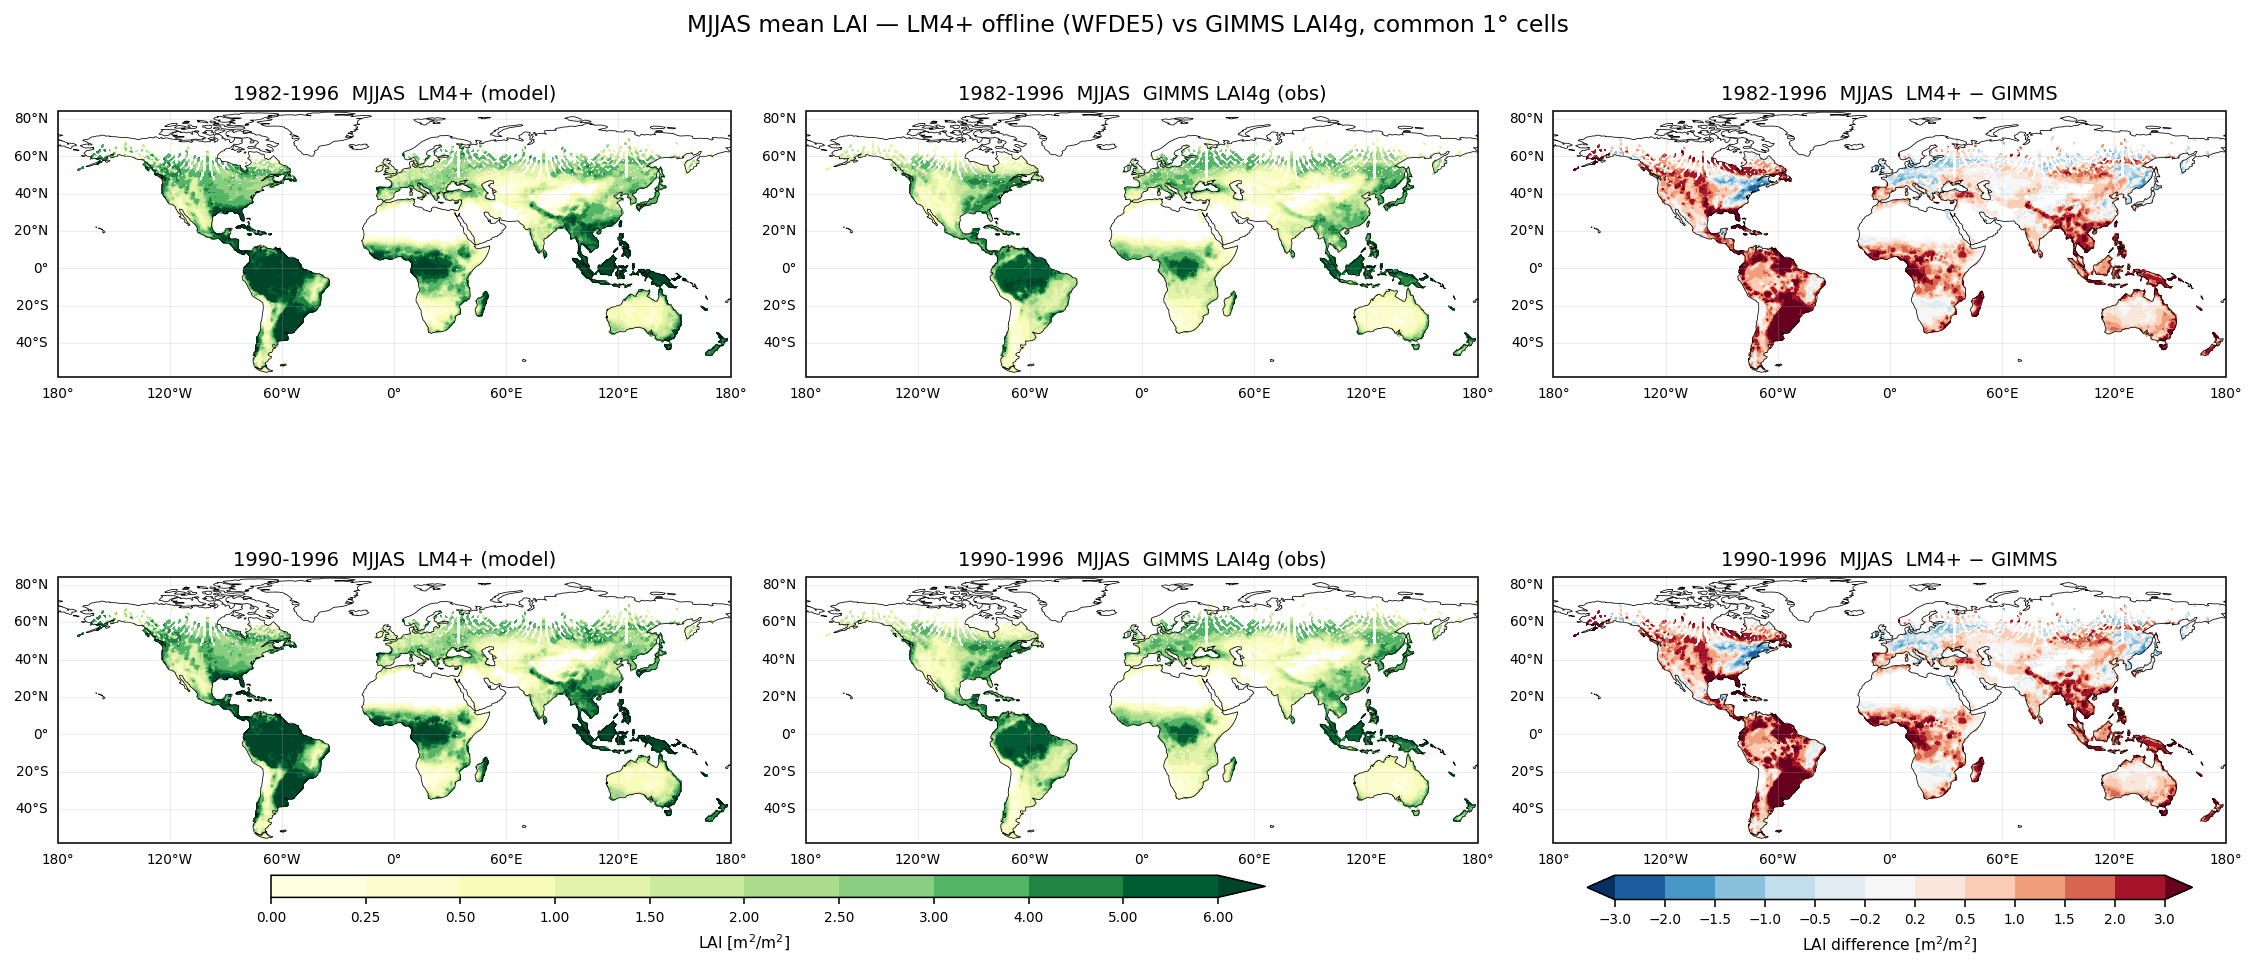
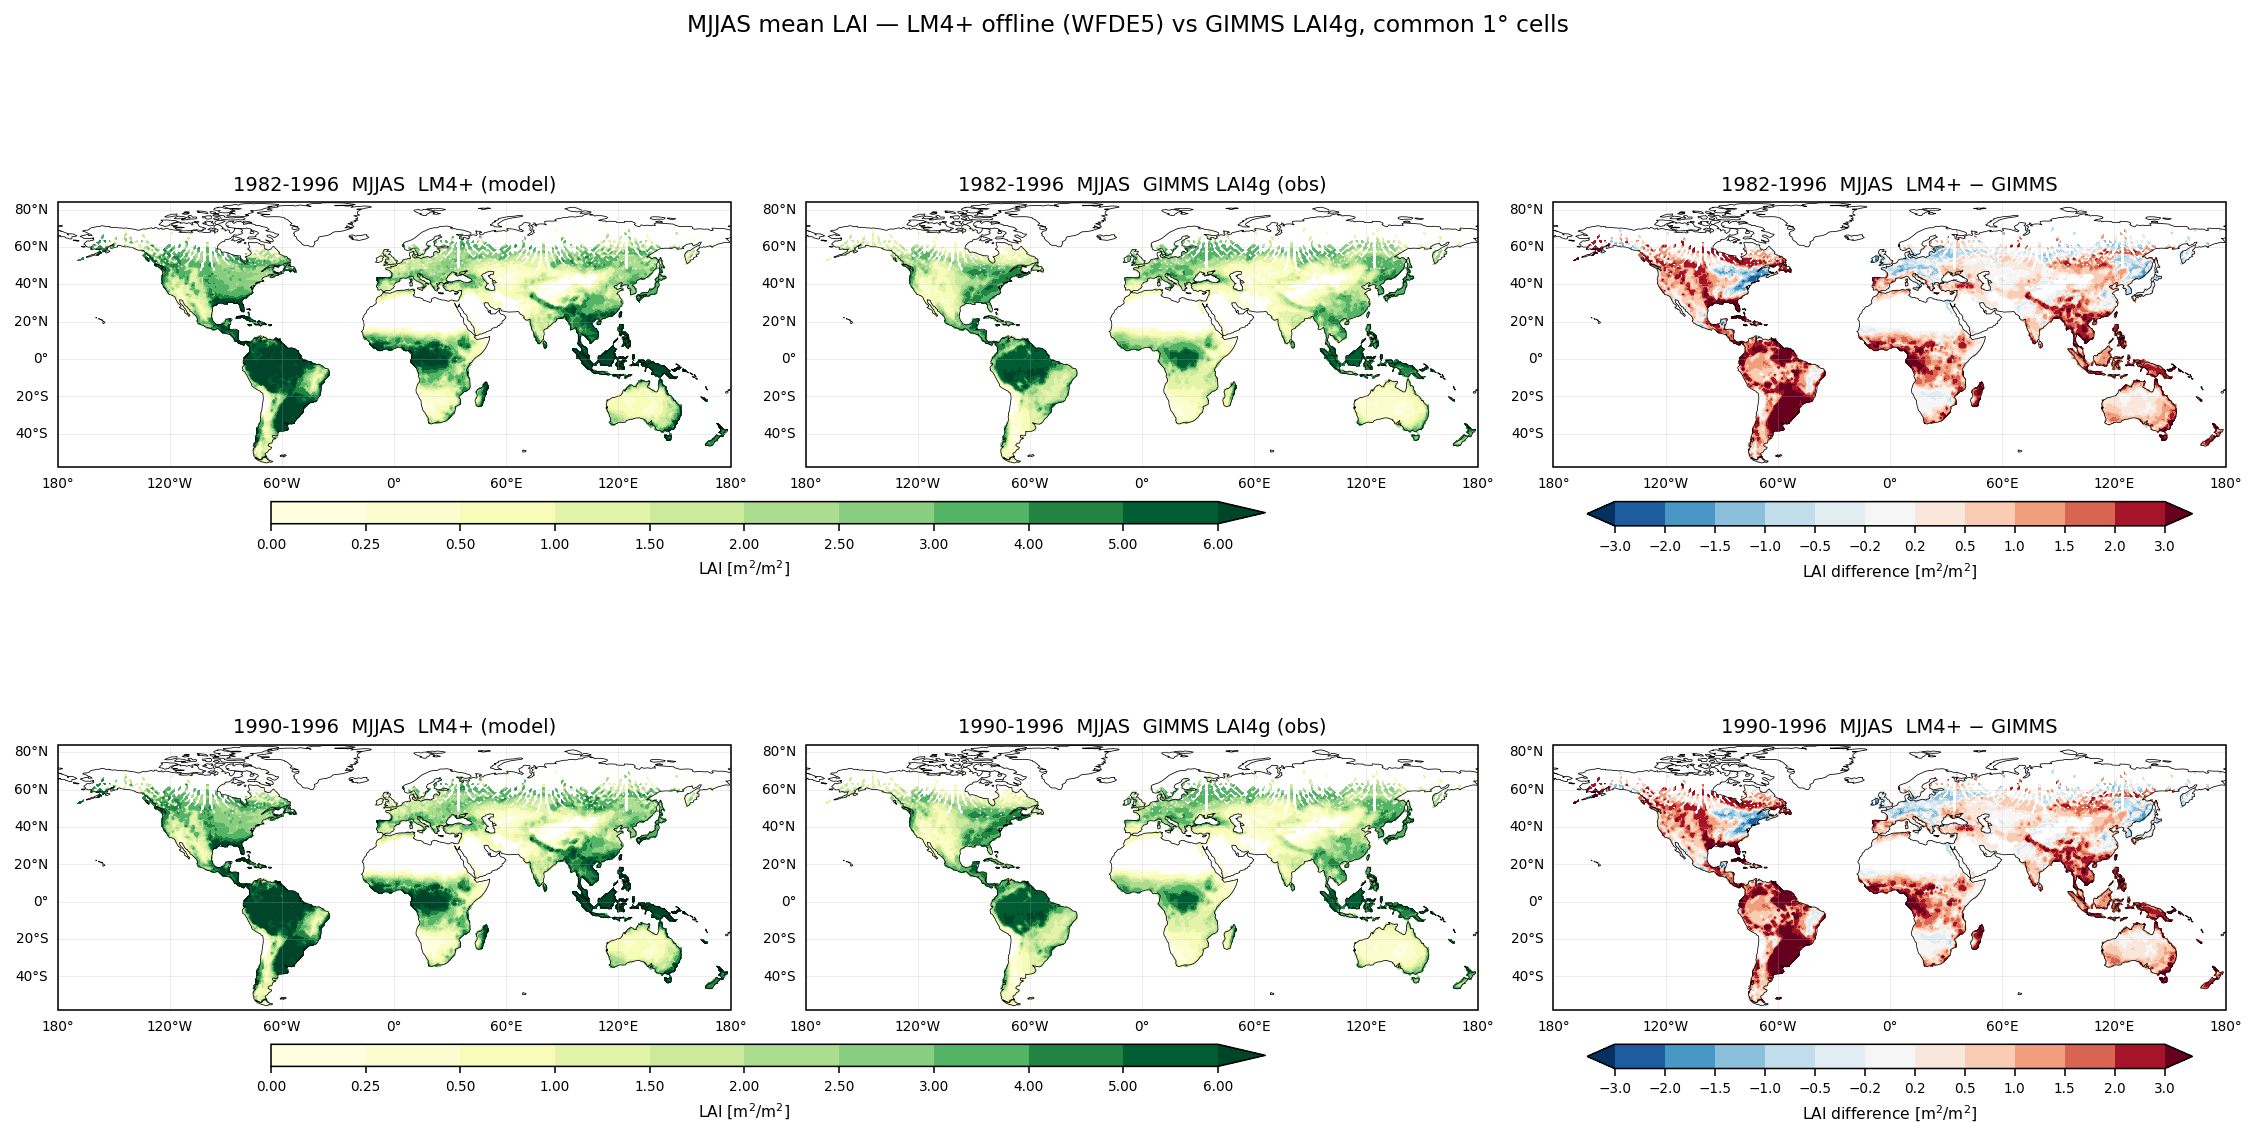
Break the LAI drift down by region
The global mean said the model rises 2.4x faster than GIMMS before 1990 and
stops afterwards. Split into the boxes the bias and trend maps pointed at, that
single number turns out to average very different behaviour: the 1982-89 rise is
+2.26 %/yr over the Amazon and +3.06 over Australia but only +0.24 over SE Asia,
a tenfold spread.

Two results worth keeping. Siberia has essentially no mean bias (+0.02) yet its
1982-89 trend is +1.51 against an observed -0.42 - the mean state is right while
the adjustment moves independently of the observations, so a small bias is not
evidence of a well behaved region. And the wet tropics carry a +1.5 to +1.6
bias while showing the weakest drift, which points at bias and drift having
separate causes.

Australia's +3.06 then -3.57 is more likely interannual than drift: MJJAS is its
dry season and the early 1990s were strongly ENSO-driven. Flagged rather than
interpreted.

The boxes are defined once and drawn on a locator map, so the time-series panels
carry only a letter instead of repeating coordinates, and the trend numbers move
out of the panels into the CSV where they do not collide with the curves. Both
map figures now carry a colourbar under each row so a single row can be cropped
out and used on its own, and the averaging-domain map is drawn as filled 2-degree
boxes rather than C96 dots.

Claude-Session: https://claude.ai/code/session_01DEPG17R63x29iz16bjY1px

diff --git a/lm4/scripts/lai_trend_regions.py b/lm4/scripts/lai_trend_regions.py
@@ -1,0 +1,161 @@
+"""Is the drift global, or does it come from particular regions?
+
+The global-mean version (lai_trend_vs_gimms.py) established that 1982-89 is
+spin-up drift: the model rises 2.4x faster than GIMMS and then stops in 1990
+while the observations keep greening.  A single global number cannot say whether
+that is uniform, and the maps already showed it is not.
+
+Boxes are picked from the bias and trend maps rather than from generic latitude
+bands: the largest overestimate sits in the wet tropics, the worst band overall
+is 60-30S (where the trend sign is wrong too), and the only underestimate is
+boreal.  Same common 1-degree cells and cos(lat) weights as the global figure.
+
+Two outputs so the boxes are defined once: a locator map carrying the letters,
+and the time series panels carrying only those letters -- no coordinates repeated
+on every panel.
+
+Note MJJAS is the northern growing season; for Amazon, Congo and Australia it is
+the dry season, so those panels are dry-season LAI.
+
+Inputs : lm4/data/lm4_lai_1982_1996.npz, lm4/data/gimms_1deg_1982_1996.npz
+Outputs: figures/lai_regions_map.png, figures/lai_trend_regions.png,
+         lm4/data/lai_trend_regions.csv
+"""
+import numpy as np
+import matplotlib.pyplot as plt
+from matplotlib.patches import Rectangle
+from matplotlib.ticker import MultipleLocator
+import cartopy.crs as ccrs
+import cartopy.feature as cfeature
+
+YEARS = np.arange(1982, 1997)
+NLAT, NLON = 180, 360
+lat1 = 89.5 - np.arange(NLAT)
+lon1 = -179.5 + np.arange(NLON)
+LAT2 = lat1[:, None] * np.ones((1, NLON))
+LON2 = np.ones((NLAT, 1)) * lon1[None, :]
+
+# letter, name, (lat0, lat1, lon0, lon1);  None = whole common domain
+REGIONS = [
+    ("",  "Global land", None),
+    ("A", "Amazon",    (-10, 5, -70, -50)),
+    ("B", "Congo",     (-5, 5, 12, 30)),
+    ("C", "SE Asia",   (-10, 10, 95, 140)),
+    ("D", "Australia", (-35, -15, 115, 150)),
+    ("E", "Siberia",   (55, 70, 60, 140)),
+]
+
+z = np.load("lm4/data/lm4_lai_1982_1996.npz")
+g = np.load("lm4/data/gimms_1deg_1982_1996.npz")
+lat, lon, keep = z["lat"], z["lon"], z["keep"]
+ilat = np.clip(((90.0 - lat) / 1.0).astype(int), 0, NLAT - 1)
+ilon = np.clip(((lon + 180.0) / 1.0).astype(int), 0, NLON - 1)
+
+
+def bin_model(v):
+    v = np.where(keep, v, np.nan)
+    s = np.zeros((NLAT, NLON))
+    c = np.zeros((NLAT, NLON))
+    ok = np.isfinite(v)
+    np.add.at(s, (ilat[ok], ilon[ok]), v[ok])
+    np.add.at(c, (ilat[ok], ilon[ok]), 1.0)
+    out = np.full((NLAT, NLON), np.nan)
+    m = c > 0
+    out[m] = s[m] / c[m]
+    return out
+
+
+ms = np.stack([bin_model(z["mjjas_%d" % y]) for y in YEARS])
+gs = np.stack([g["mjjas_%d" % y] for y in YEARS])
+common = np.all(np.isfinite(ms), axis=0) & np.all(np.isfinite(gs), axis=0)
+W = np.cos(np.deg2rad(lat1))[:, None] * np.ones((1, NLON))
+
+
+def mask_of(bx):
+    if bx is None:
+        return common
+    la0, la1, lo0, lo1 = bx
+    return common & (LAT2 >= la0) & (LAT2 < la1) & (LON2 >= lo0) & (LON2 < lo1)
+
+
+def series(sel):
+    w = np.where(sel, W, 0.0)
+    a = np.array([np.nansum(np.where(sel, ms[i], 0) * w) / w.sum()
+                  for i in range(len(YEARS))])
+    b = np.array([np.nansum(np.where(sel, gs[i], 0) * w) / w.sum()
+                  for i in range(len(YEARS))])
+    return a, b, int(sel.sum())
+
+
+def tr(v, s):
+    return np.polyfit(YEARS[s], v[s], 1)[0] / abs(v[s].mean()) * 100
+
+
+# ------------------------------------------------------------ locator map ----
+proj = ccrs.PlateCarree()
+fig = plt.figure(figsize=(14, 7))
+ax = fig.add_subplot(1, 1, 1, projection=proj)
+ax.set_extent([-180, 180, -58, 84], crs=proj)
+ax.add_feature(cfeature.COASTLINE, lw=0.45)
+bg = np.where(common, ms.mean(axis=0), np.nan)
+im = ax.contourf(lon1, lat1, bg,
+                 levels=[0, 0.25, 0.5, 1.0, 1.5, 2.0, 2.5, 3.0, 4.0, 5.0, 6.0],
+                 cmap="YlGn", extend="max", transform=proj)
+for letter, name, bx in REGIONS:
+    if bx is None:
+        continue
+    la0, la1, lo0, lo1 = bx
+    ax.add_patch(Rectangle((lo0, la0), lo1 - lo0, la1 - la0, fill=False,
+                           edgecolor="#1a1a1a", lw=2.0, transform=proj, zorder=5))
+    ax.text(lo0 + (lo1 - lo0) / 2, la1 + 2.5, "%s  %s" % (letter, name),
+            ha="center", va="bottom", fontsize=13, fontweight="bold",
+            transform=proj, zorder=6,
+            bbox=dict(boxstyle="round,pad=0.25", fc="white", ec="#1a1a1a", lw=1.0))
+gl = ax.gridlines(draw_labels=True, lw=0.3, alpha=0.4)
+gl.top_labels = False
+gl.right_labels = False
+gl.xlabel_style = {"size": 11}
+gl.ylabel_style = {"size": 11}
+cb = fig.colorbar(im, ax=ax, orientation="horizontal", pad=0.06, shrink=0.6,
+                  aspect=40)
+cb.set_label("MJJAS mean LAI 1982–1996, LM4+ [m$^2$/m$^2$]", fontsize=12)
+cb.ax.tick_params(labelsize=10)
+ax.set_title("Regions used for the LAI time series", fontsize=15)
+fig.tight_layout()
+fig.savefig("figures/lai_regions_map.png", dpi=150)
+print("wrote figures/lai_regions_map.png")
+
+# ------------------------------------------------------------- time series ---
+d1, d2 = YEARS <= 1989, YEARS >= 1990
+rows = []
+print("\nMJJAS LAI, common 1-deg cells, cos(lat) weighted")
+print("%-16s %6s | %8s %8s | %8s %8s | %6s"
+      % ("region", "cells", "LM4 82-89", "obs", "LM4 90-96", "obs", "bias"))
+fig, axes = plt.subplots(2, 3, figsize=(19, 9))
+for ax, (letter, name, bx) in zip(axes.ravel(), REGIONS):
+    a, b, n = series(mask_of(bx))
+    bias = a.mean() - b.mean()
+    print("%-16s %6d | %+8.2f %+8.2f | %+8.2f %+8.2f | %+6.2f"
+          % (name, n, tr(a, d1), tr(b, d1), tr(a, d2), tr(b, d2), bias))
+    rows.append([n, tr(a, d1), tr(b, d1), tr(a, d2), tr(b, d2), bias])
+
+    ax.plot(YEARS, a, "o-", color="#08519c", lw=2.2, ms=6, label="LM4+ (model)")
+    ax.plot(YEARS, b, "s-", color="#238b45", lw=2.2, ms=6, label="GIMMS LAI4g")
+    ax.set_title("%s %s" % (("(%s)" % letter) if letter else "", name),
+                 fontsize=17, loc="left")
+    ax.set_ylabel("LAI [m$^2$/m$^2$]", fontsize=14)
+    ax.set_xlabel("year", fontsize=14)
+    ax.tick_params(labelsize=13)
+    ax.xaxis.set_major_locator(MultipleLocator(5))
+    ax.xaxis.set_minor_locator(MultipleLocator(1))
+    ax.grid(alpha=0.3, lw=0.5)
+axes[0, 0].legend(fontsize=13, loc="center right")
+fig.suptitle("LAI by region — LM4+ vs GIMMS LAI4g, MJJAS mean on common 1° cells "
+             "(boxes: see the locator map)", fontsize=16)
+fig.tight_layout(rect=[0, 0, 1, 0.94])
+fig.savefig("figures/lai_trend_regions.png", dpi=140)
+
+np.savetxt("lm4/data/lai_trend_regions.csv", np.array(rows), delimiter=",",
+           header="ncells,lm4_8289,gimms_8289,lm4_9096,gimms_9096,bias",
+           comments="", fmt="%.4f")
+print("\nwrote figures/lai_trend_regions.png")

diff --git a/lm4/scripts/plot_avg_domain.py b/lm4/scripts/plot_avg_domain.py
@@ -1,58 +1,83 @@
 """Which cells the LM4+ global land mean is actually taken over.
 
 The time-series figures average over C96 land points, but not all of them:
-variables carried on soil_area already drop Antarctica, and a Greenland box is
-cut by hand (Iceland kept).  This draws the three groups so the averaging domain
-is on record next to the numbers.
+variables carried on soil_area already drop Antarctica, and Greenland is removed
+by its Natural Earth outline (greenland_mask.py).  Drawn on a 2-degree display
+grid so the domain reads as coverage rather than as scattered C96 dots.
+
+A 2-degree box counts as used if it holds at least one averaged point; boxes
+that hold land but no averaged point are the excluded ones.
 
 Input : lm4/data/lm4_lai_1982_1996.npz  (lat, lon, keep, ann_1990)
 Output: figures/lm4_avg_domain.png
 """
 import numpy as np
 import matplotlib.pyplot as plt
+from matplotlib.colors import ListedColormap, BoundaryNorm
 import cartopy.crs as ccrs
 import cartopy.feature as cfeature
 
 z = np.load("lm4/data/lm4_lai_1982_1996.npz")
 lat = z["lat"]
 lon = np.where(z["lon"] > 180, z["lon"] - 360, z["lon"])
-keep = z["keep"]                      # False inside the Greenland box
+keep = z["keep"]                      # False inside the Greenland outline
 soil = np.isfinite(z["ann_1990"])     # soil_area > 0, i.e. not ice sheet
 
 used = soil & keep
-ice = ~soil
-grn = soil & ~keep
+excluded = ~used
 
-print("C96 land points          %6d" % lat.size)
-print("  ice sheet (no soil)    %6d   lat %.1f .. %.1f" % (ice.sum(), lat[ice].min(), lat[ice].max()))
-print("  Greenland box cut      %6d" % grn.sum())
-print("  USED in the land mean  %6d" % used.sum())
 w = np.cos(np.deg2rad(lat))
-print("  used share of land area  %.1f %%" % (100 * w[used].sum() / w.sum()))
+print("C96 land points          %6d" % lat.size)
+print("  ice sheet (no soil)    %6d" % (~soil).sum())
+print("  Greenland outline cut  %6d" % (soil & ~keep).sum())
+print("  USED in the land mean  %6d  (%.1f %% of land area)"
+      % (used.sum(), 100 * w[used].sum() / w.sum()))
+
+DL = 2.0
+NLAT, NLON = int(180 / DL), int(360 / DL)
+blat = 90 - DL / 2 - np.arange(NLAT) * DL
+blon = -180 + DL / 2 + np.arange(NLON) * DL
+bi = np.clip(((90.0 - lat) / DL).astype(int), 0, NLAT - 1)
+bj = np.clip(((lon + 180.0) / DL).astype(int), 0, NLON - 1)
+
+grid = np.zeros((NLAT, NLON))                      # 0 = ocean / no land
+np.add.at(grid, (bi[excluded], bj[excluded]), 0)   # keep the array shape honest
+has_land = np.zeros((NLAT, NLON), bool)
+has_used = np.zeros((NLAT, NLON), bool)
+np.logical_or.at(has_land, (bi, bj), True)
+np.logical_or.at(has_used, (bi[used], bj[used]), True)
+
+field = np.full((NLAT, NLON), np.nan)
+field[has_land] = 0.0                              # land but nothing averaged
+field[has_used] = 1.0                              # at least one averaged point
+print("  2-deg boxes: used %d, excluded-only %d"
+      % (has_used.sum(), (has_land & ~has_used).sum()))
+
+cmap = ListedColormap(["#b8d4e8", "#2c7a3f"])      # excluded, used
+norm = BoundaryNorm([-0.5, 0.5, 1.5], cmap.N)
 
 proj = ccrs.PlateCarree()
-fig = plt.figure(figsize=(13, 6.4))
+fig = plt.figure(figsize=(14, 7))
 ax = fig.add_subplot(1, 1, 1, projection=proj)
 ax.set_extent([-180, 180, -90, 90], crs=proj)
-ax.add_feature(cfeature.COASTLINE, lw=0.45)
-ax.scatter(lon[used], lat[used], s=1.4, marker="s", c="#2c7a3f",
-           transform=proj, linewidths=0,
-           label="used in the land mean  (n=%d)" % used.sum())
-ax.scatter(lon[ice], lat[ice], s=1.4, marker="s", c="#7fb3d5",
-           transform=proj, linewidths=0,
-           label="ice sheet, no soil tile  (n=%d)" % ice.sum())
-ax.scatter(lon[grn], lat[grn], s=5.0, marker="s", c="#e07b39",
-           transform=proj, linewidths=0,
-           label="Greenland box cut by hand  (n=%d)" % grn.sum())
+ax.pcolormesh(blon, blat, np.ma.masked_invalid(field), cmap=cmap, norm=norm,
+              transform=proj, shading="nearest")
+ax.add_feature(cfeature.COASTLINE, lw=0.5)
 gl = ax.gridlines(draw_labels=True, lw=0.3, alpha=0.4)
 gl.top_labels = False
 gl.right_labels = False
-gl.xlabel_style = {"size": 8}
-gl.ylabel_style = {"size": 8}
-ax.legend(loc="lower left", fontsize=9, markerscale=6, framealpha=0.92)
-ax.set_title("Averaging domain of the LM4+ global land mean — C96 land points\n"
-             "soil_area > 0 minus a Greenland box (Iceland kept); "
-             "Antarctica has no soil tile at all", fontsize=11)
+gl.xlabel_style = {"size": 11}
+gl.ylabel_style = {"size": 11}
+handles = [plt.Rectangle((0, 0), 1, 1, fc="#2c7a3f", ec="none"),
+           plt.Rectangle((0, 0), 1, 1, fc="#b8d4e8", ec="none")]
+ax.legend(handles,
+          ["averaged  (%d C96 points, %.0f %% of land area)"
+           % (used.sum(), 100 * w[used].sum() / w.sum()),
+           "excluded: ice sheet + Greenland  (%d points)" % excluded.sum()],
+          loc="lower left", fontsize=11, framealpha=0.93)
+ax.set_title("Averaging domain of the LM4+ global land mean\n"
+             "C96 land points with soil_area > 0, Greenland removed by its "
+             "outline;  shown on a 2° grid", fontsize=14)
 fig.tight_layout()
 fig.savefig("figures/lm4_avg_domain.png", dpi=150)
 print("\nwrote figures/lm4_avg_domain.png")

diff --git a/lm4/scripts/lai_trendmap_vs_gimms.py b/lm4/scripts/lai_trendmap_vs_gimms.py
@@ -89,7 +89,7 @@ for win in ("ann", "mjjas"):
 LV = np.array([-0.6, -0.4, -0.25, -0.15, -0.05, 0.05, 0.15, 0.25, 0.4, 0.6])
 LVD = np.array([-0.6, -0.4, -0.25, -0.15, -0.05, 0.05, 0.15, 0.25, 0.4, 0.6])
 proj = ccrs.PlateCarree()
-fig, axes = plt.subplots(2, 3, figsize=(16, 6.8), subplot_kw={"projection": proj},
+fig, axes = plt.subplots(2, 3, figsize=(16, 8.0), subplot_kw={"projection": proj},
                          constrained_layout=True)
 titles = ["LM4+ (model)", "GIMMS LAI4g (obs)", "LM4+ − GIMMS"]
 im_val = im_dif = None
@@ -114,14 +114,16 @@ for r, win in enumerate(("ann", "mjjas")):
         gl.xlabel_style = {"size": 7}
         gl.ylabel_style = {"size": 7}
 
-cb = fig.colorbar(im_val, ax=[axes[1, 0], axes[1, 1]], orientation="horizontal",
-                  ticks=LV, shrink=0.7, pad=0.02, aspect=45)
-cb.ax.tick_params(labelsize=7)
-cb.set_label("LAI trend [m$^2$/m$^2$ per decade]", fontsize=8)
-cb2 = fig.colorbar(im_dif, ax=axes[1, 2], orientation="horizontal",
-                   ticks=LVD, shrink=0.9, pad=0.02, aspect=25)
-cb2.ax.tick_params(labelsize=7)
-cb2.set_label("trend difference [m$^2$/m$^2$ per decade]", fontsize=8)
+# a colourbar under every row, so either row can be cropped out and used alone
+for r_ in range(2):
+    cb = fig.colorbar(im_val, ax=[axes[r_, 0], axes[r_, 1]], orientation="horizontal",
+                      ticks=LV, shrink=0.7, pad=0.02, aspect=45)
+    cb.ax.tick_params(labelsize=7)
+    cb.set_label("LAI trend [m$^2$/m$^2$ per decade]", fontsize=8)
+    cb2 = fig.colorbar(im_dif, ax=axes[r_, 2], orientation="horizontal",
+                       ticks=LVD, shrink=0.9, pad=0.02, aspect=25)
+    cb2.ax.tick_params(labelsize=7)
+    cb2.set_label("trend difference [m$^2$/m$^2$ per decade]", fontsize=8)
 fig.suptitle("LAI trend 1982–1996, common 1° cells — LM4+ offline (WFDE5) vs GIMMS LAI4g",
              fontsize=12)
 fig.savefig("figures/lai_trendmap_vs_gimms.png", dpi=140, bbox_inches="tight")

diff --git a/lm4/scripts/lai_meanmap_vs_gimms.py b/lm4/scripts/lai_meanmap_vs_gimms.py
@@ -83,7 +83,7 @@ np.savetxt("lm4/data/lai_meanmap_scores.csv", np.array(scores), delimiter=",",
 LV = np.array([0, 0.25, 0.5, 1.0, 1.5, 2.0, 2.5, 3.0, 4.0, 5.0, 6.0])
 LVD = np.array([-3, -2, -1.5, -1, -0.5, -0.2, 0.2, 0.5, 1, 1.5, 2, 3])
 proj = ccrs.PlateCarree()
-fig, axes = plt.subplots(2, 3, figsize=(16, 6.8), subplot_kw={"projection": proj},
+fig, axes = plt.subplots(2, 3, figsize=(16, 8.0), subplot_kw={"projection": proj},
                          constrained_layout=True)
 titles = ["LM4+ (model)", "GIMMS LAI4g (obs)", "LM4+ − GIMMS"]
 im_val = im_dif = None
@@ -107,14 +107,16 @@ for r_, (label, _) in enumerate(WINDOWS):
         gl.xlabel_style = {"size": 7}
         gl.ylabel_style = {"size": 7}
 
-cb = fig.colorbar(im_val, ax=[axes[1, 0], axes[1, 1]], orientation="horizontal",
-                  ticks=LV, shrink=0.7, pad=0.02, aspect=45)
-cb.ax.tick_params(labelsize=7)
-cb.set_label("LAI [m$^2$/m$^2$]", fontsize=8)
-cb2 = fig.colorbar(im_dif, ax=axes[1, 2], orientation="horizontal",
-                   ticks=LVD, shrink=0.9, pad=0.02, aspect=25)
-cb2.ax.tick_params(labelsize=7)
-cb2.set_label("LAI difference [m$^2$/m$^2$]", fontsize=8)
+# a colourbar under every row, so either row can be cropped out and used alone
+for r_ in range(2):
+    cb = fig.colorbar(im_val, ax=[axes[r_, 0], axes[r_, 1]], orientation="horizontal",
+                      ticks=LV, shrink=0.7, pad=0.02, aspect=45)
+    cb.ax.tick_params(labelsize=7)
+    cb.set_label("LAI [m$^2$/m$^2$]", fontsize=8)
+    cb2 = fig.colorbar(im_dif, ax=axes[r_, 2], orientation="horizontal",
+                       ticks=LVD, shrink=0.9, pad=0.02, aspect=25)
+    cb2.ax.tick_params(labelsize=7)
+    cb2.set_label("LAI difference [m$^2$/m$^2$]", fontsize=8)
 fig.suptitle("MJJAS mean LAI — LM4+ offline (WFDE5) vs GIMMS LAI4g, common 1° cells",
              fontsize=12)
 fig.savefig("figures/lai_meanmap_vs_gimms.png", dpi=140, bbox_inches="tight")
